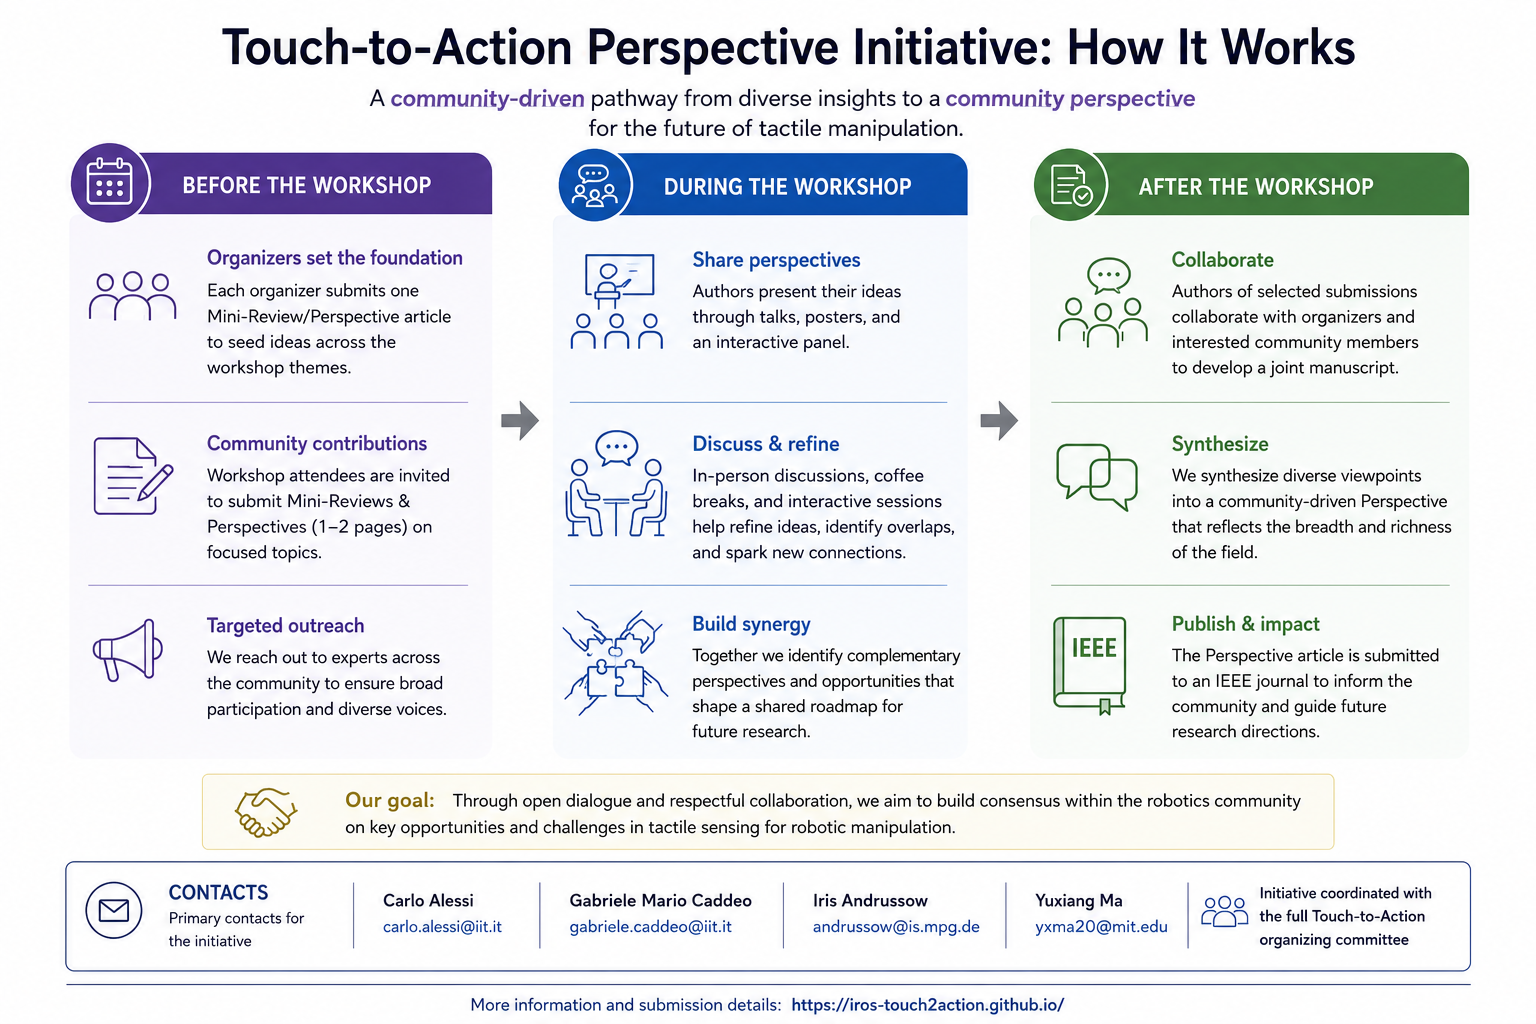
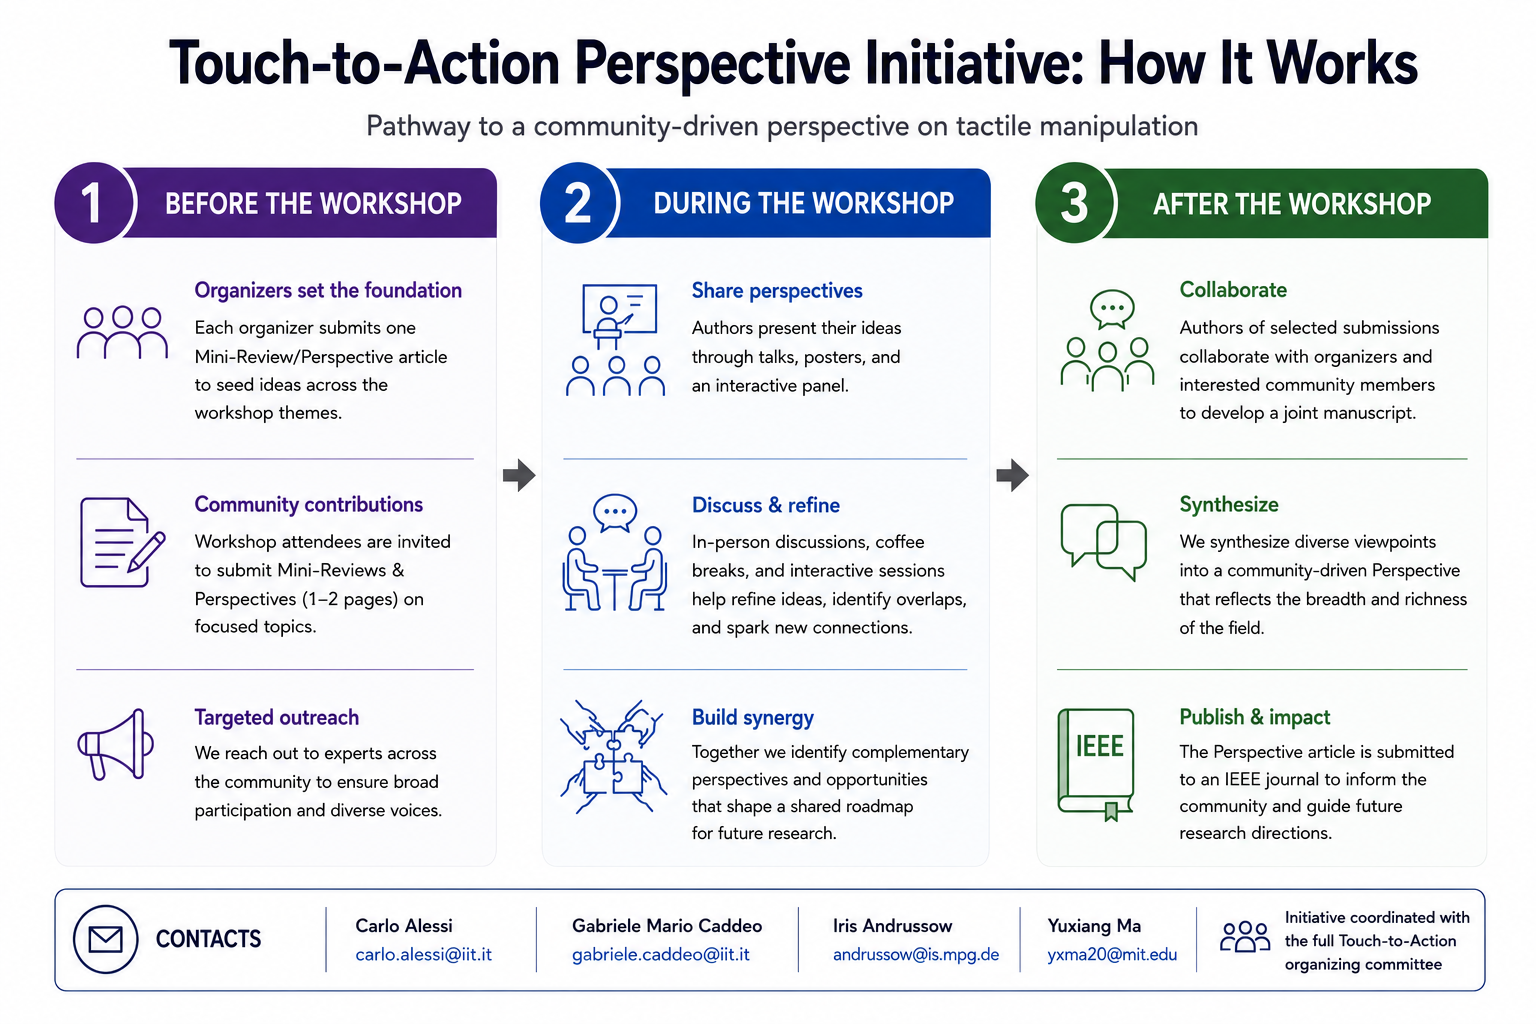
added perspective flyer

Changed region(s): [[0.0312, 0.0312, 0.9688, 1.0], [0.0312, 0.6875, 0.0938, 0.7812], [0.625, 0.4062, 0.6562, 0.4375]]

diff --git a/index.html b/index.html
@@ -386,7 +386,12 @@
         <li>Provide a <b>critical, forward-looking perspective</b> rather than a survey. Synthesize the state of the art, discuss strengths, limitations, and open challenges, and propose future directions, ideally centered on a <b>research question</b>.</li>
 
         <li>Limit the submission length to <b>1-2 pages (including references)</b>. We value <b>original insights over exhaustive coverage</b>. One illustrative figure is encouraged, with preference for <b>original figures</b> over AI-generated artwork.</li>
-</ul>
+      </ul>
+
+      <!-- touch-to-action initiative flyer -->
+      <div class="mt-4">
+        <img src="figures/touch-to-action_perspective_initiative_exported.png" alt="Touch-to-Action Initiative Flyer" class="rounded-lg shadow-lg">
+      </div>
     </div>
 
     <!-- Important Dates -->
